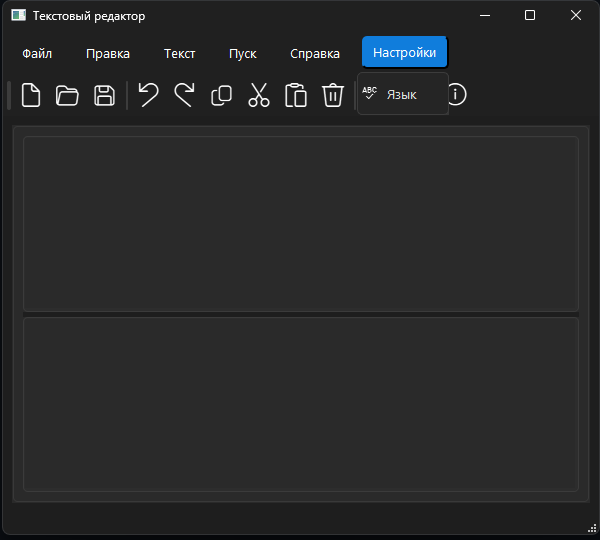
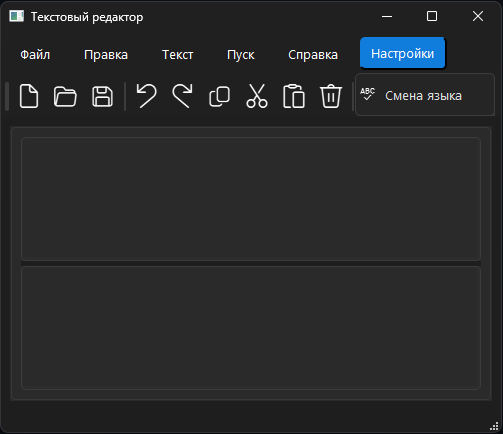
Update: images

diff --git a/language.py b/language.py
@@ -65,7 +65,7 @@ class Language():
                 'actionAbout': 'О программе',
 
                 # Settings menu actions
-                'actionLanguage': 'Язык',
+                'actionLanguage': 'Смена языка',
 
                 # Default tab titles
                 'new_document': 'Новый документ',
@@ -176,7 +176,7 @@ class Language():
                 'actionAbout': 'About',
 
                 # Settings menu actions
-                'actionLanguage': 'Language',
+                'actionLanguage': 'Change language',
 
                 # Default tab titles
                 'new_document': 'New Document',

diff --git a/text_editor.py b/text_editor.py
@@ -631,7 +631,7 @@ class TextEditor(QMainWindow, Ui_MainWindow):  # , Ui_MainWindow
                         <td>Удаляет выделенный текст</td>
                     </tr>
                     <tr>
-                        <td><b>Выделить все</b></td>
+                        <td><b>Выделить всё</b></td>
                         <td><span>Ctrl+A</span></td>
                         <td>Выделяет весь текст в документе</td>
                     </tr>
